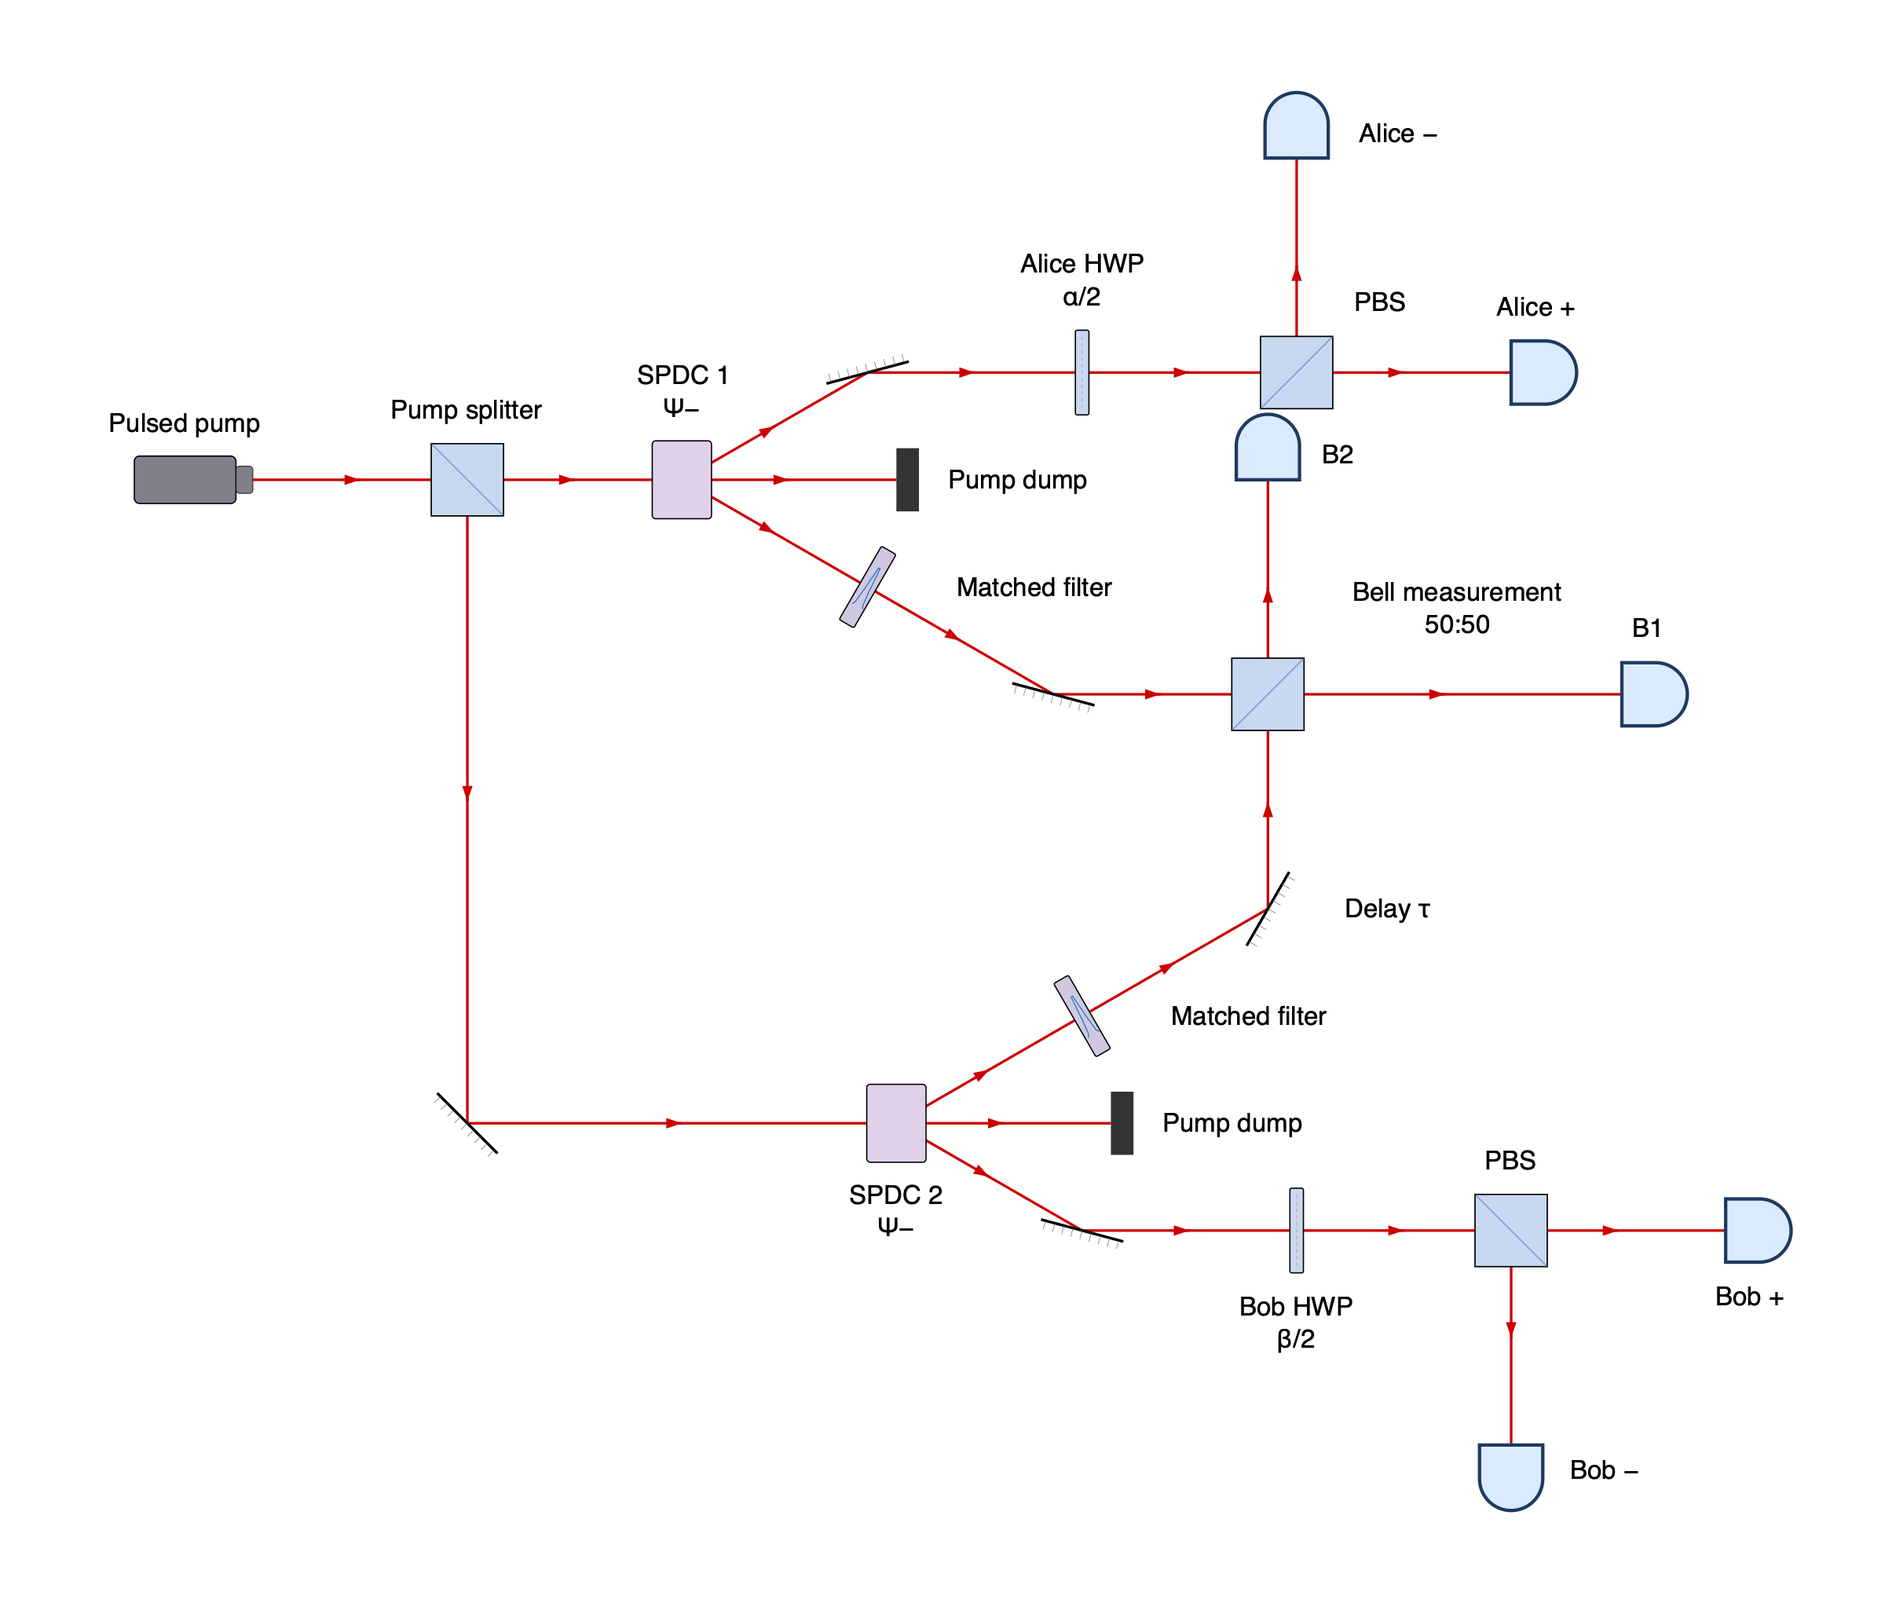
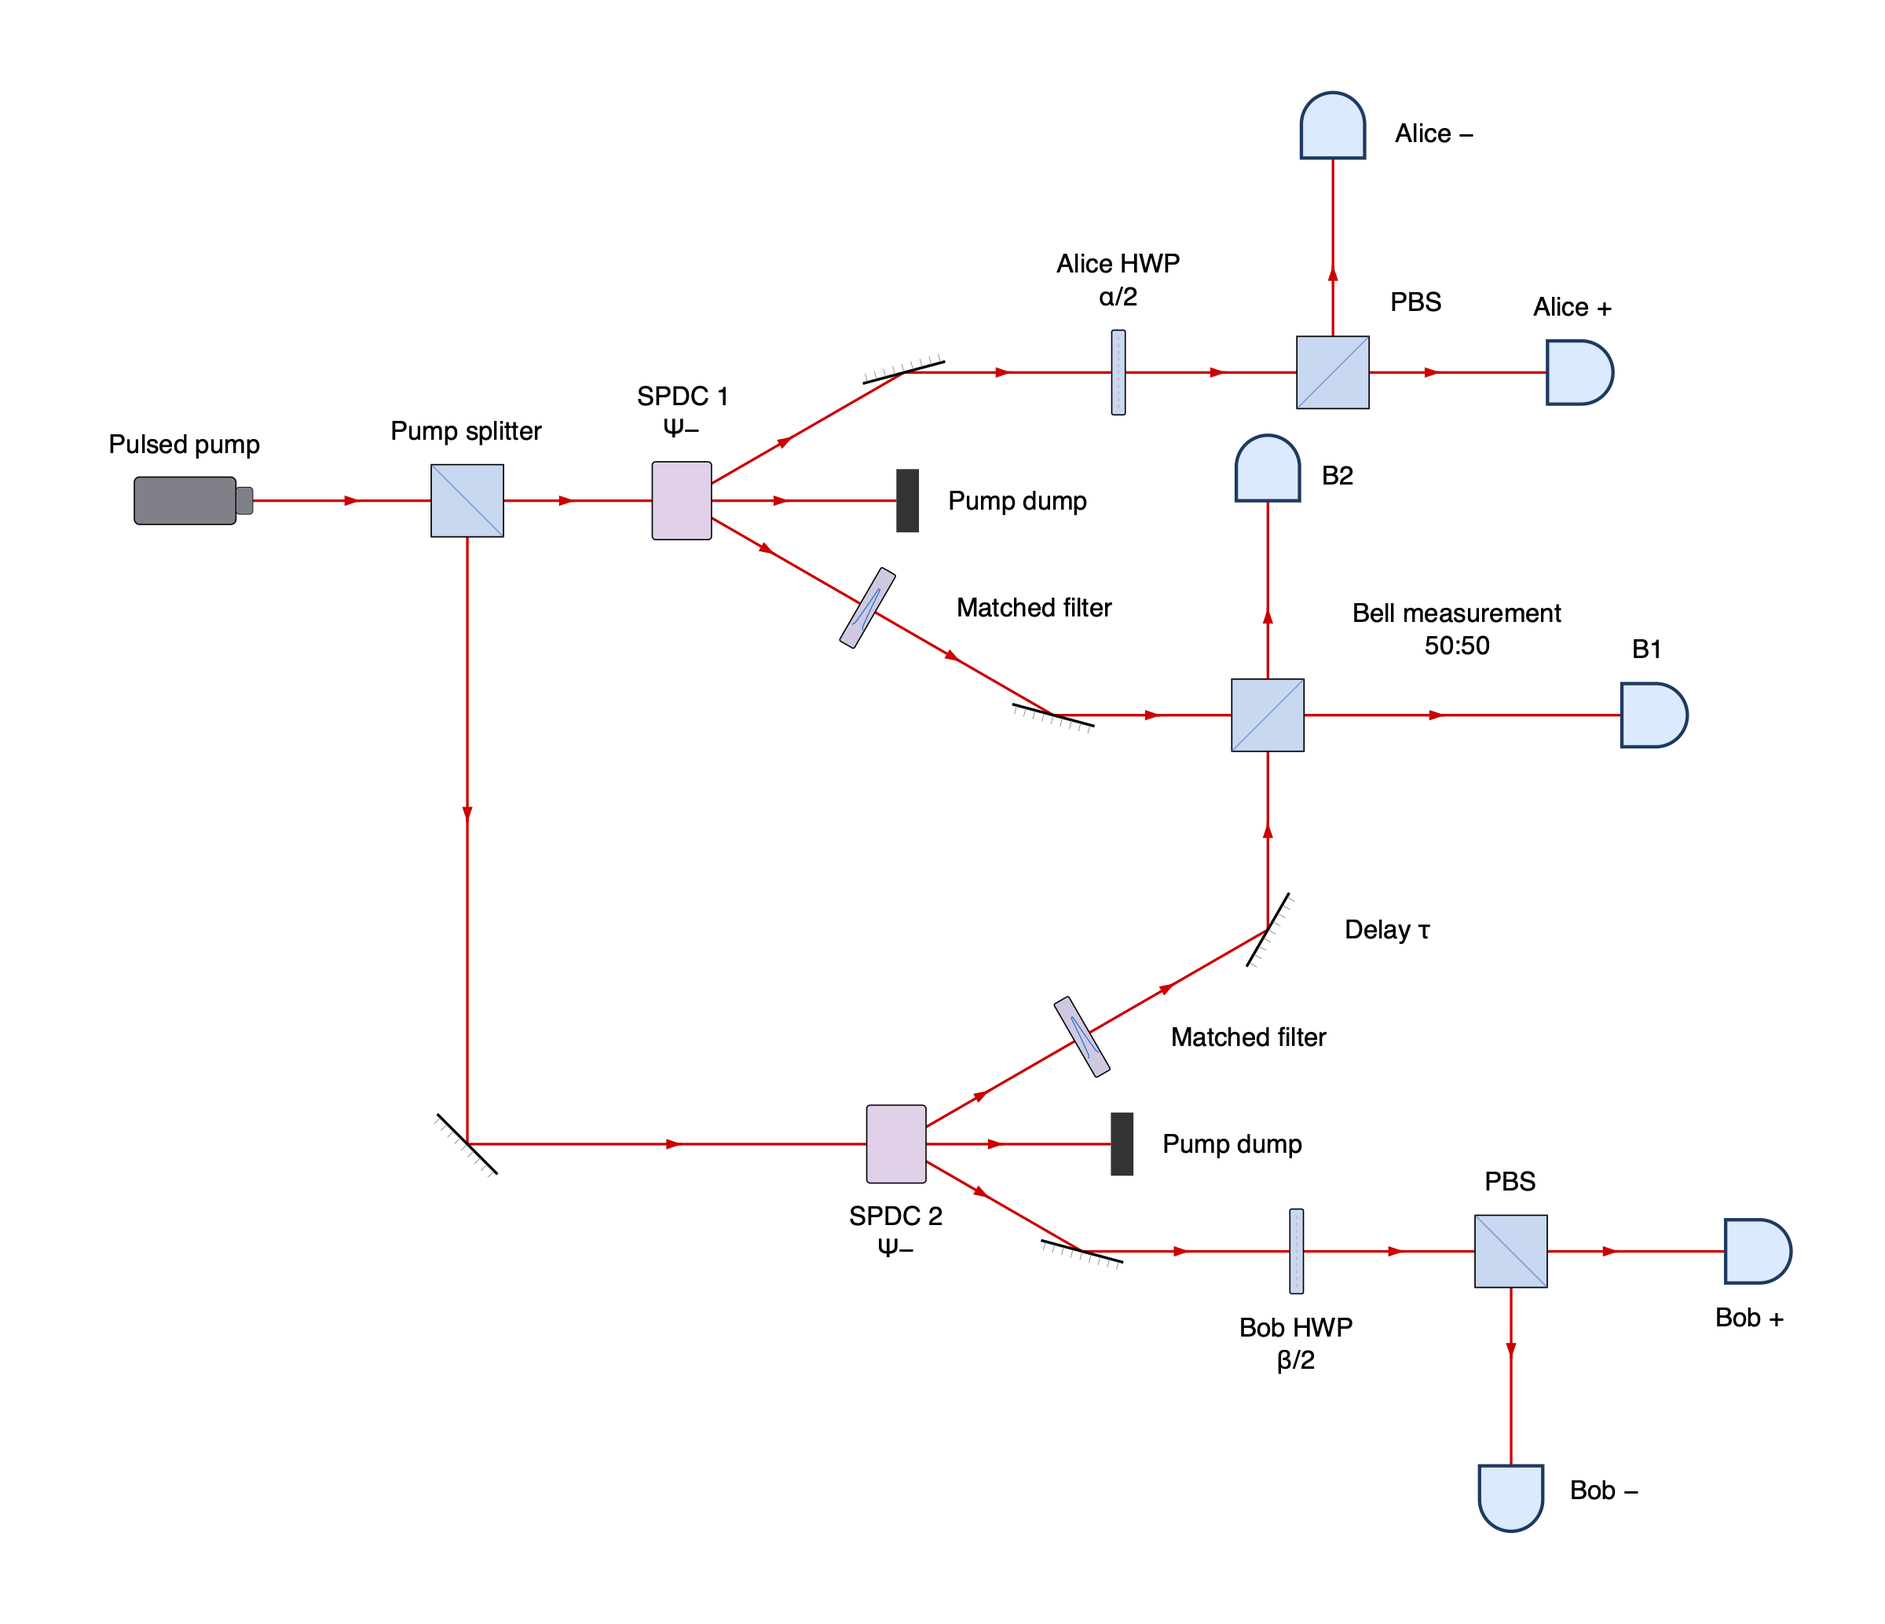
Enforce artwork clearance throughout layout

diff --git a/tests/test_layout.py b/tests/test_layout.py
@@ -248,7 +248,7 @@ def test_position_hint_and_subpitch_explicit_distance():
     assert q.layout().segments[0].length == pytest.approx(420)
 
 
-def parallel_detector_inputs(direction):
+def parallel_detector_inputs(direction, separation=40):
     source = ComponentSpec(ComponentDefinition(
         "small_source", "", Artwork((0, 0), (-5, -5, 5, 5),
                                    svg='<svg xmlns="http://www.w3.org/2000/svg"/>'),
@@ -256,23 +256,26 @@ def parallel_detector_inputs(direction):
     ))
     drawing = Setup()
     paths = [drawing.beam(direction, origin=rotate((0, y), direction)) >> source
-             for y in (0, 40)]
+             for y in (0, separation)]
     return drawing, paths
 
 
 @pytest.mark.parametrize("direction", [0, 90, 180, 270])
+@pytest.mark.parametrize("separation,clearance", [(40, 20), (70, 20), (70, 35)])
 @pytest.mark.parametrize("fixed,kind", [(None, None), (0, "distance"), (1, "distance"),
                                        (0, "pin"), (1, "pin")])
-def test_overlapping_branch_optics_separate_without_changing_hard_constraints(direction, fixed, kind):
-    drawing, paths = parallel_detector_inputs(direction)
-    pins = [rotate((212, y), direction) for y in (0, 40)]
+def test_crowded_branch_optics_separate_without_changing_hard_constraints(direction, separation, clearance,
+                                                                        fixed, kind):
+    # The 60-unit detector housings can overlap or merely violate clearance.
+    drawing, paths = parallel_detector_inputs(direction, separation)
+    pins = [rotate((212, y), direction) for y in (0, separation)]
     for index, path in enumerate(paths):
         hints = {}
         if index == fixed:
             hints = {"at": pins[index]} if kind == "pin" else {"distance": 190}
         path.append(detector(""), **hints)
     before = drawing.optics, drawing.connections
-    result = drawing.layout()
+    result = drawing.layout(style=Style(clearance=clearance))
     targets = [result.placements[path.end.id] for path in paths]
     assert not overlap(targets[0].bounds, targets[1].bounds, result.style.clearance)
     lengths = [next(segment.length for segment in result.segments if segment.target == path.end.id)
@@ -284,16 +287,44 @@ def test_overlapping_branch_optics_separate_without_changing_hard_constraints(di
     elif kind == "pin":
         assert targets[fixed].position == pytest.approx(pins[fixed])
     assert (drawing.optics, drawing.connections) == before
-    for source, y in zip((drawing.optics[0], drawing.optics[1]), (0, 40)):
+    for source, y in zip((drawing.optics[0], drawing.optics[1]), (0, separation)):
         assert result.placements[source.id].position == pytest.approx(rotate((0, y), direction))
 
 
-def test_overlapping_branch_optics_with_fixed_distances_still_fail():
-    drawing, paths = parallel_detector_inputs(0)
+@pytest.mark.parametrize("separation,message", [(40, "artwork overlaps"), (70, "insufficient clearance")])
+def test_crowded_branch_optics_with_fixed_distances_still_fail(separation, message):
+    drawing, paths = parallel_detector_inputs(0, separation)
     for path in paths:
         path.append(detector(""), distance=190)
-    with pytest.raises(LayoutError, match="artwork overlaps"):
+    with pytest.raises(LayoutError, match=message):
         drawing.layout()
+
+
+@pytest.mark.parametrize("clearance", [10, 20, 35])
+def test_swapping_respects_artwork_clearance(clearance):
+    setup = runpy.run_module("beampath.examples.swapping")["setup"]
+    result = setup.layout(style=Style(clearance=clearance))
+    optics = list(result.placements.values())
+    for index, a in enumerate(optics):
+        for b in optics[index + 1:]:
+            assert not overlap(a.bounds, b.bounds, clearance), (a.id, b.id)
+
+
+@pytest.mark.parametrize("medium", ["free_space", "fiber"])
+@pytest.mark.parametrize("gap", [19, 20])
+def test_fixed_artwork_must_respect_clearance(medium, gap):
+    spec = _small_optic("fixed", (Port("in", "input", medium=medium, draw_lead_in=False),))
+    setup = Setup()
+    setup.beam() >> spec
+    setup.beam(origin=(10 + gap, 0)) >> spec
+    before = setup.optics, setup.connections
+    if gap < 20:
+        with pytest.raises(LayoutError, match="insufficient clearance"):
+            setup.layout()
+    else:
+        result = setup.layout()
+        assert [p.position for p in result.placements.values()] == [(0, 0), (10 + gap, 0)]
+    assert (setup.optics, setup.connections) == before
 
 
 @pytest.mark.parametrize("hints", [{"distance": 10}, {"at": (0, 100)}, {"distance": 200, "at": (300, 0)}])

diff --git a/src/beampath/fiber_layout.py b/src/beampath/fiber_layout.py
@@ -98,10 +98,10 @@ def _move(placements, delta):
             for ident, p in placements.items()}
 
 
-def _collides(candidate, placed, drawing, style, clearance, blocks=None):
+def _collides(candidate, placed, drawing, style, blocks=None):
     combined = {**placed, **candidate}
     return occupied_geometry(drawing, combined, style, blocks).conflict(
-        combined, style, clearance, across=candidate)
+        combined, style, across=candidate)
 
 
 def _place(setup, style, blocks=None, *, drawing=None):
@@ -155,13 +155,11 @@ def _place(setup, style, blocks=None, *, drawing=None):
                 for rotation in dict.fromkeys((original.rotation, 0, 90, 180, 270)):
                     candidate = replace(original, rotation=rotation,
                                         bounds=translated(footprint(original.instance, rotation), original.position))
-                    if not _collides({ident: candidate}, placed, drawing, style, 0, blocks):
+                    if not _collides({ident: candidate}, placed, drawing, style, blocks):
                         block = {ident: candidate}
                         break
-        if collision := _collides(block, placed, drawing, style, 0, blocks):
-            context = ("pinned component artwork overlaps"
-                       if collision.first.kind == collision.second.kind == "artwork" else "pinned placement")
-            raise LayoutError(f"{sections[index][0]}: {context}: {collision.context}")
+        if collision := _collides(block, placed, drawing, style, blocks):
+            raise LayoutError(f"{sections[index][0]}: pinned placement: {collision.context}")
         placed.update(block)
         done.add(index)
     while len(done) < len(sections):
@@ -225,14 +223,14 @@ def _place(setup, style, blocks=None, *, drawing=None):
         candidate = _move(block, delta)
         # Shift an unpinned section to a clear lane, preserving its solved beam
         # geometry. The fallback clears all measured content, not just artwork.
-        if _collides(candidate, placed, drawing, style, style.clearance, blocks):
+        if _collides(candidate, placed, drawing, style, blocks):
             combined = {**placed, **candidate}
             geometry = occupied_geometry(drawing, combined, style, blocks)
             right = geometry.bounds(combined, within=placed)[2]
             left = geometry.bounds(combined, within=candidate)[0]
             gap = max(style.pitch, style.clearance, 3)
             candidate = _move(candidate, (max(gap, right + gap - left), 0))
-        if collision := _collides(candidate, placed, drawing, style, style.clearance, blocks):
+        if collision := _collides(candidate, placed, drawing, style, blocks):
             raise LayoutError(f"{sections[index][0]}: cannot place fiber-connected section: {collision.context}")
         placed.update(candidate)
         done.add(index)
@@ -255,7 +253,7 @@ def _orient_fiber_components(placements, edges, drawing, style, fixed=(), blocks
                 continue
             candidate = replace(original, rotation=rotation, bounds=bounds)
             if _collides({ident: candidate}, {key: p for key, p in placements.items() if key != ident},
-                         drawing, style, 0, blocks):
+                         drawing, style, blocks):
                 continue
             trial = {**placements, ident: candidate}
             try:

diff --git a/tests/test_labels.py b/tests/test_labels.py
@@ -13,6 +13,7 @@ from beampath import (
 from beampath.examples._discovery import example_names
 from beampath.geometry import add, overlap, rotate
 from beampath.layout import segment_intersects
+from beampath.labels import space_labels
 
 
 def distance(a, b):
@@ -69,6 +70,23 @@ def test_reported_labels_stay_at_the_normal_gap(name, text, kind):
     assert_labels_clear(layout)
 
 
+@pytest.mark.parametrize("clearance", [20, 35])
+def test_label_spacing_rechecks_artwork_clearance(clearance):
+    setup = runpy.run_module("beampath.examples.swapping")["setup"].setup
+    initial = setup.layout(style=Style(clearance=1))
+    optics = list(initial.placements.values())
+    # Exercise label spacing independently of the initial component solver.
+    assert any(overlap(a.bounds, b.bounds, clearance)
+               for index, a in enumerate(optics) for b in optics[index + 1:])
+    style = Style(clearance=clearance)
+    placements, labels = space_labels(setup, initial.placements, style)
+    optics = list(placements.values())
+    for index, a in enumerate(optics):
+        for b in optics[index + 1:]:
+            assert not overlap(a.bounds, b.bounds, clearance), (a.id, b.id)
+    assert len(labels) == len(initial.labels)
+
+
 def box(label="", bounds=(-5, -5, 5, 5), anchor=None):
     return ComponentSpec(ComponentDefinition(
         "label-fixture", "", Artwork((0, 0), bounds, svg='<svg xmlns="http://www.w3.org/2000/svg"/>'),
@@ -118,8 +136,8 @@ def test_only_automatic_gaps_expand_and_fixed_distance_and_pin_survive(direction
 def crowded_fixed_setup():
     setup = Setup()
     setup.beam() >> box("Label that needs room")
-    for position, bounds in [((0, 50), (-200, -5, 200, 5)),
-                             ((0, -50), (-200, -5, 200, 5)),
+    for position, bounds in [((0, 50), (-65, -5, 65, 5)),
+                             ((0, -50), (-65, -5, 65, 5)),
                              ((90, 0), (-5, -40, 5, 40)),
                              ((-90, 0), (-5, -40, 5, 40))]:
         setup.beam(origin=position) >> box(bounds=bounds)

diff --git a/src/beampath/occupied.py b/src/beampath/occupied.py
@@ -87,7 +87,7 @@ class _Scene:
     boxes: tuple[_Box, ...]
     lines: tuple[_Line, ...]
 
-    def conflict(self, placements, style, artwork_clearance=0, across=None):
+    def conflict(self, placements, style, across=None):
         def consider(a, b):
             if a.frame is not None and a.frame == b.frame:
                 return False  # This immutable child was already measured and checked.
@@ -101,7 +101,9 @@ class _Scene:
         for i, (a, bounds_a) in enumerate(boxes):
             for b, bounds_b in boxes[i + 1:]:
                 artwork = a.kind == b.kind == "artwork"
-                padding = artwork_clearance if artwork else 3
+                # Detect near misses too, including when label placement moves
+                # optics that were previously clear of one another.
+                padding = style.clearance if artwork else 3
                 if not consider(a, b):
                     continue
                 if {a.kind, b.kind} == {"artwork", "label"}:
@@ -119,7 +121,8 @@ class _Scene:
                 if not overlap(bounds_a, bounds_b, padding):
                     continue
                 if artwork:
-                    context = f"{a.owner} and {b.owner}: component artwork overlaps"
+                    problem = "overlaps" if overlap(bounds_a, bounds_b) else "has insufficient clearance"
+                    context = f"{a.owner} and {b.owner}: component artwork {problem}"
                 elif a.kind == b.kind == "label":
                     context = f"{a.owner}: stage labels overlap"
                 else:

diff --git a/src/beampath/labels.py b/src/beampath/labels.py
@@ -206,16 +206,18 @@ def solve_spacing(drawing, style, blocks, initial,
         if signature in seen:
             return
         seen.add(signature)
-        if attempts >= limit:
-            raise LayoutError(f"{context}: automatic label spacing search budget exhausted "
-                              f"({limit} candidate states)")
-        attempts += 1
         trial = kiwi.Solver()
         try:
             for constraint in (*constraints, *branch):
                 trial.addConstraint(constraint)
         except kiwi.UnsatisfiableConstraint:
             return
+        # Contradictory separating axes cannot become search states. Reject
+        # them before spending the budget needed to explore feasible choices.
+        if attempts >= limit:
+            raise LayoutError(f"{context}: automatic label spacing search budget exhausted "
+                              f"({limit} candidate states)")
+        attempts += 1
         trial.updateVariables()
         length = round(sum(value.value() for value in lengths.values()), 7)
         displacement = round(sum(abs(xs[ident].value() - p.position[0])

diff --git a/src/beampath/layout.py b/src/beampath/layout.py
@@ -499,8 +499,9 @@ def _beam_segments(setup, placements, style):
     items = list(placements.values())
     for index, a in enumerate(items):
         for b in items[index + 1:]:
-            if overlap(a.bounds, b.bounds):
-                raise LayoutError(f"{a.id} and {b.id}: component artwork overlaps")
+            if overlap(a.bounds, b.bounds, style.clearance):
+                problem = "overlaps" if overlap(a.bounds, b.bounds) else "has insufficient clearance"
+                raise LayoutError(f"{a.id} and {b.id}: component artwork {problem}")
     beams = _beam_geometry(setup, {ident: p.instance for ident, p in placements.items()}, style,
                            {ident: p.rotation for ident, p in placements.items()})
     segments = [beam.placed(placements) for beam in beams]

diff --git a/src/beampath/group_layout.py b/src/beampath/group_layout.py
@@ -144,7 +144,7 @@ def _group(setup, group, style):
             measured = _translate(measured, delta)
             bounds = translated(bounds, delta)
             blocks = {next(iter(item.placements)): item for item in (*children, measured)}
-            if _collides(measured.placements, placements, setup, style, 0, blocks):
+            if _collides(measured.placements, placements, setup, style, blocks):
                 # Keep the entry x coordinate and minimum content gap. Extend
                 # the row only when boundary connector space requires it.
                 combined = {**placements, **measured.placements}

diff --git a/tests/test_fiber.py b/tests/test_fiber.py
@@ -269,7 +269,7 @@ def test_unconnected_fiber_components_and_conflicting_pins_fail_clearly():
         setup.layout()
     p = beam().append(fiber_laser())
     p.append(inline_power_meter(), at=(0, 0))
-    with pytest.raises(LayoutError, match="pinned component artwork overlaps"):
+    with pytest.raises(LayoutError, match="pinned placement.*component artwork overlaps"):
         p.layout()
 
 

diff --git a/docs/api.md b/docs/api.md
@@ -25,9 +25,10 @@ Most diagrams can start from the [examples](gallery.md). Import core tools from
   between ports; it cannot be used on a first component or a fiber connection.
   `at=(x, y)` pins a component reference point. The beam origin places its first
   optic. Pins and distances are required constraints; incompatible ones fail.
-  Automatic spacing can stretch free-space paths to separate overlapping optics
-  and clear beams, including open stubs and incoming leads, crossing unrelated
-  optics within a free-space section. The
+  Automatic spacing can stretch free-space paths to keep component artwork at
+  least `Style.clearance` apart, including optics on different branches, and clear
+  beams, including open stubs and incoming leads, crossing unrelated optics within
+  a free-space section. Label-driven repositioning preserves that clearance. The
   deterministic search tries up to 1,000 candidate states; budget exhaustion is
   reported separately from infeasible constraints. Explicit pins and distances
   are never relaxed.
